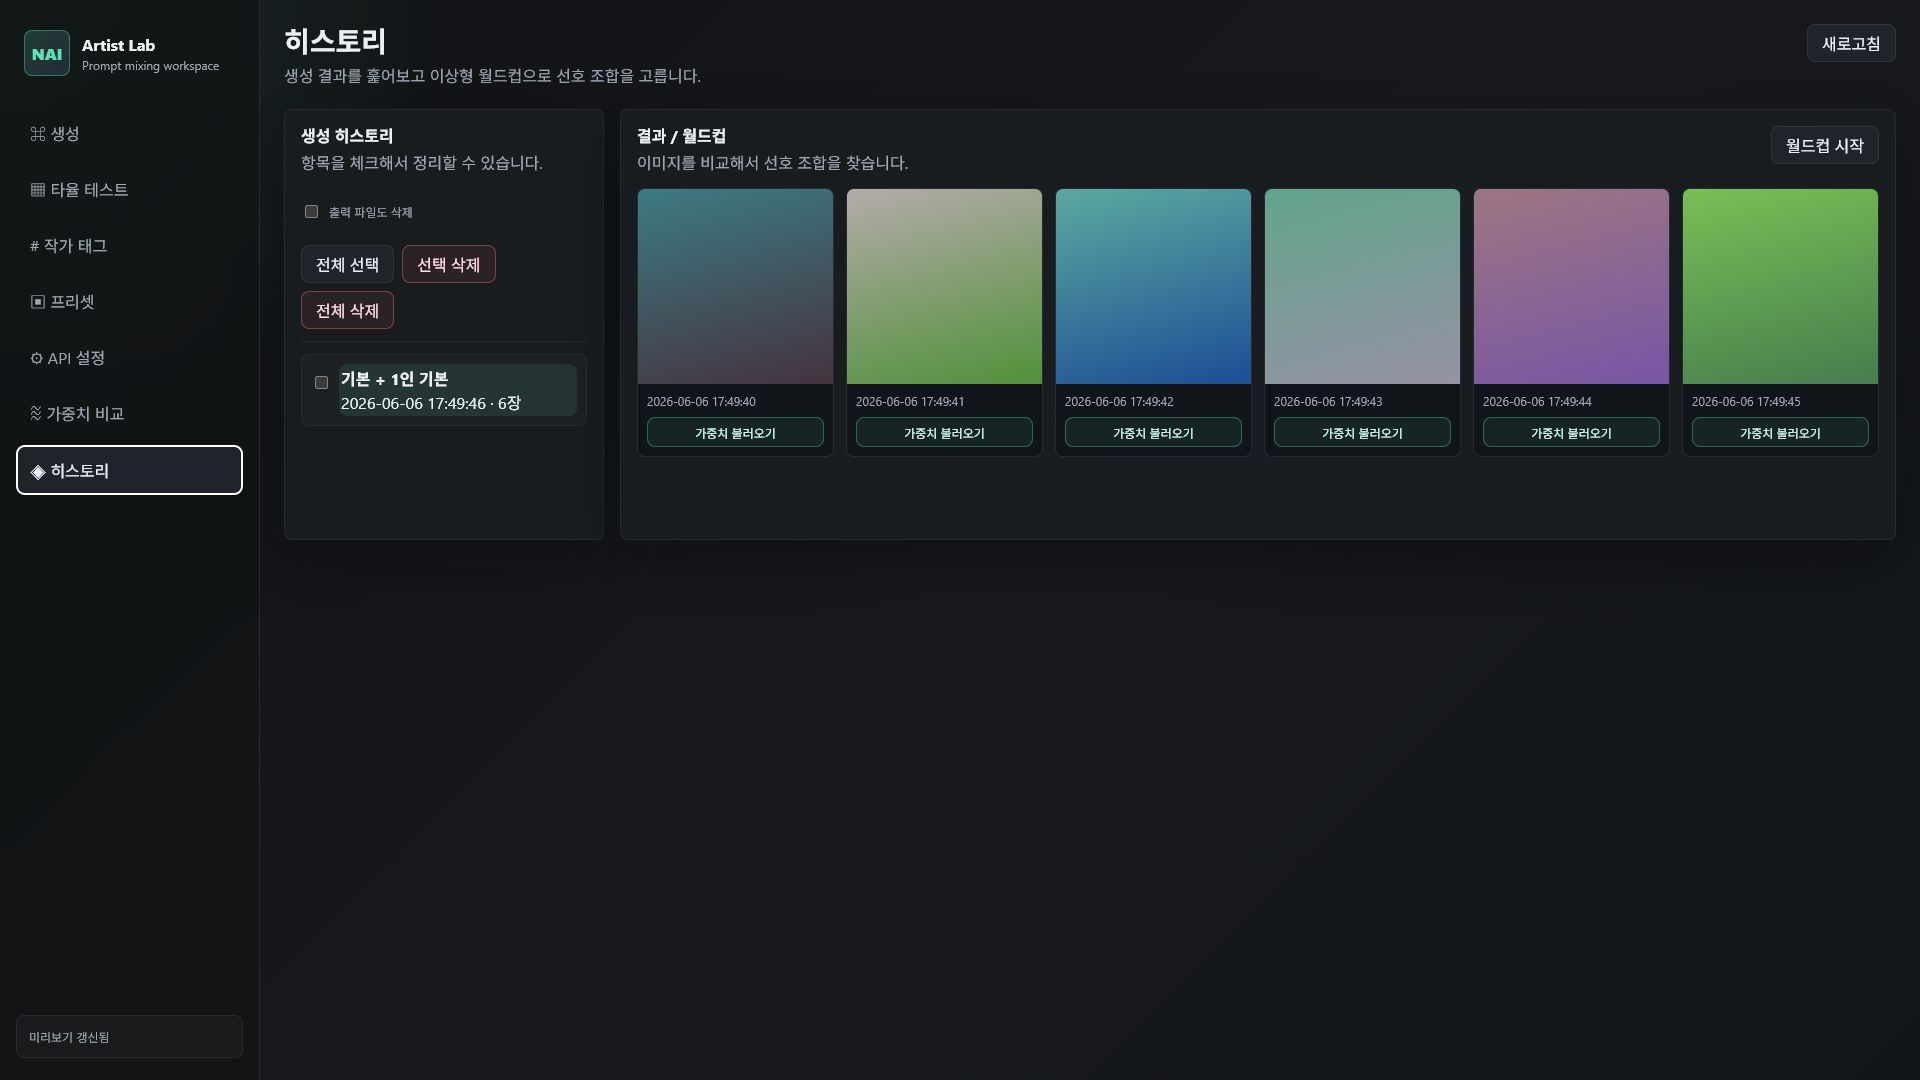
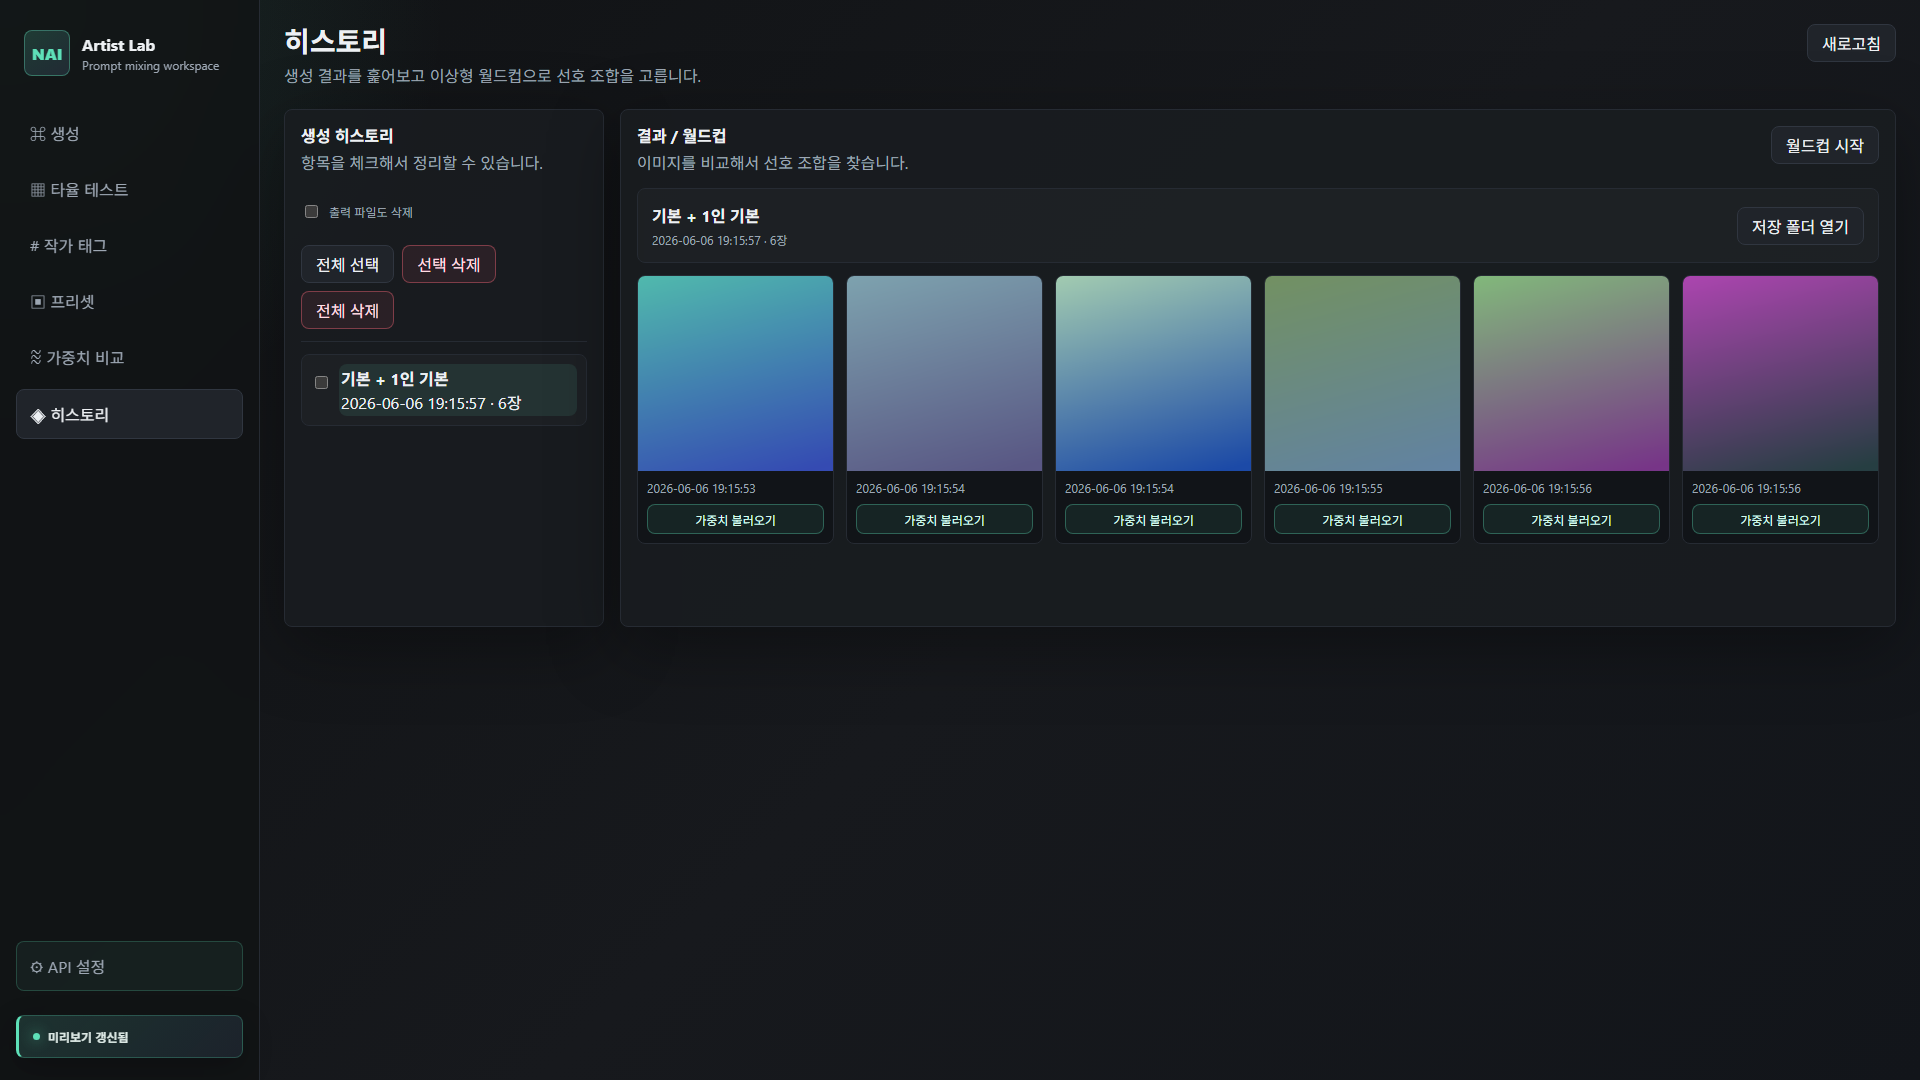
Use home nai_aclab folder and refresh screenshots

diff --git a/bin/nai-artist-lab.js b/bin/nai-artist-lab.js
@@ -14,18 +14,7 @@ function userDataDir() {
     return process.env.NAI_ARTIST_LAB_USER_DIR;
   }
 
-  if (process.platform === "win32") {
-    return path.join(os.homedir(), "Pictures", "NAI Artist Combination Lab");
-  }
-
-  if (process.platform === "darwin") {
-    return path.join(os.homedir(), "Pictures", "NAI Artist Combination Lab");
-  }
-
-  return path.join(
-    process.env.XDG_PICTURES_DIR || path.join(os.homedir(), "Pictures"),
-    "NAI Artist Combination Lab"
-  );
+  return path.join(os.homedir(), "nai_aclab");
 }
 
 function printHelp() {

diff --git a/app.py b/app.py
@@ -25,25 +25,11 @@ except Exception:
 APP_DIR = Path(__file__).resolve().parent
 
 
-def default_pictures_dir() -> Path:
-    if os.name != "nt":
-        user_dirs = Path.home() / ".config" / "user-dirs.dirs"
-        try:
-            for line in user_dirs.read_text(encoding="utf-8").splitlines():
-                if line.startswith("XDG_PICTURES_DIR="):
-                    value = line.split("=", 1)[1].strip().strip('"')
-                    value = value.replace("$HOME", str(Path.home()))
-                    return Path(value).expanduser()
-        except OSError:
-            pass
-    return Path.home() / "Pictures"
-
-
 def default_user_dir() -> Path:
     configured = os.environ.get("NAI_ARTIST_LAB_USER_DIR", "").strip()
     if configured:
         return Path(configured).expanduser()
-    return default_pictures_dir() / "NAI Artist Combination Lab"
+    return Path.home() / "nai_aclab"
 
 
 USER_DIR = default_user_dir()

diff --git a/README.md b/README.md
@@ -219,11 +219,11 @@ NovelAI V4+의 멀티 캐릭터 프롬프트는 캐릭터를 쉼표로 합치지
 
 앱 설정과 생성 이미지는 내 컴퓨터에 저장됩니다.
 
-기본적으로 운영체제의 사진/그림 폴더 아래에 앱 폴더를 만들고, 그 안에 설정과 생성 이미지를 함께 저장합니다.
+기본적으로 홈 폴더 아래에 `nai_aclab` 폴더를 만들고, 그 안에 설정과 생성 이미지를 함께 저장합니다.
 
-- Windows: `Pictures\NAI Artist Combination Lab`
-- macOS: `~/Pictures/NAI Artist Combination Lab`
-- Linux: `XDG_PICTURES_DIR/NAI Artist Combination Lab`
+- Windows: `C:\Users\사용자이름\nai_aclab`
+- macOS: `~/nai_aclab`
+- Linux: `~/nai_aclab`
 
 폴더 안의 구조는 아래처럼 나뉩니다.
 
